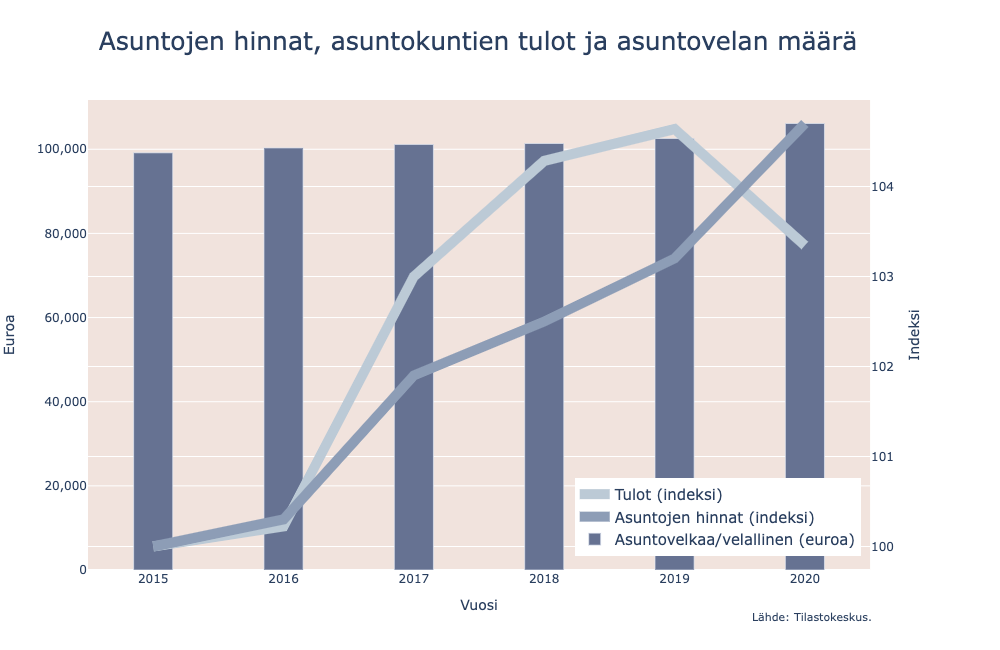
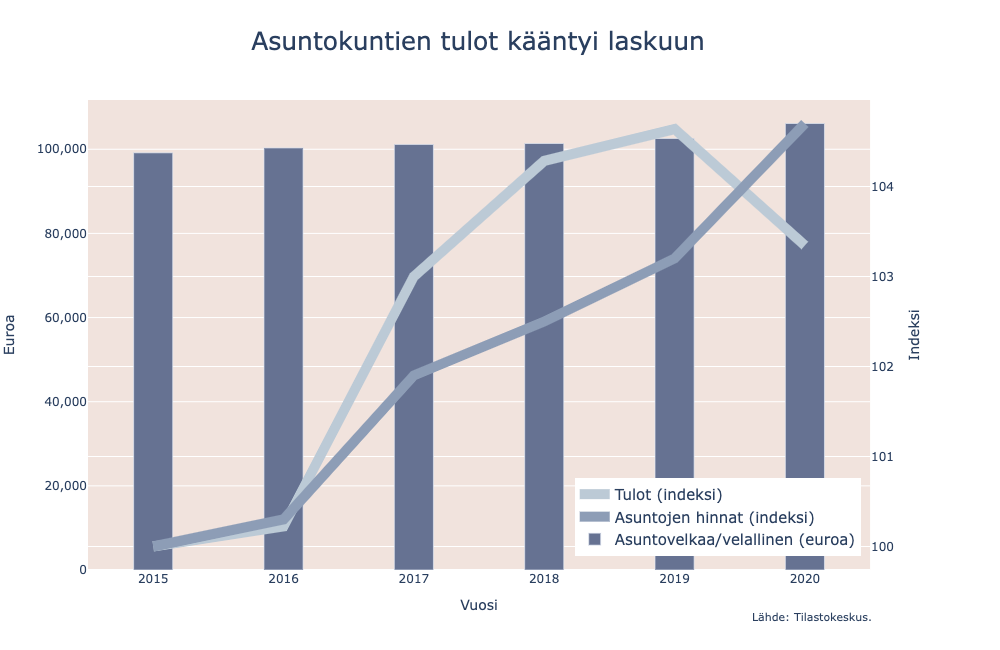
uusi otsikko

Changed region(s): [[0.093, 0.0308, 0.868, 0.0923]]

diff --git a/asunnot.py b/asunnot.py
@@ -68,7 +68,7 @@ fig.update_layout(
   width=1000,
   height=650,
   plot_bgcolor="#f1e3dd",
-  title={"text":"Asuntojen hinnat, asuntokuntien tulot ja asuntovelan määrä", "x": 0.478, "font": {"size": 25}},
+  title={"text":"Asuntokuntien tulot kääntyi laskuun", "x": 0.478, "font": {"size": 25}},
   xaxis_title="Vuosi",
   legend={"x": 0.585, "y": 0.03, "font": {"size":15}},
   yaxis={"tickformat": ",.0f"}
